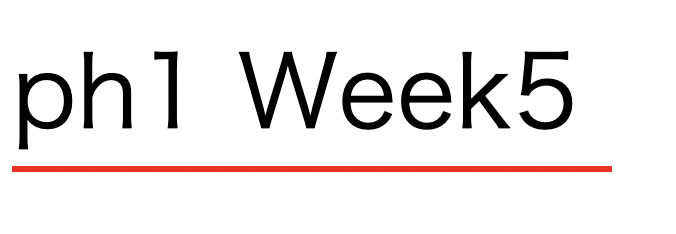
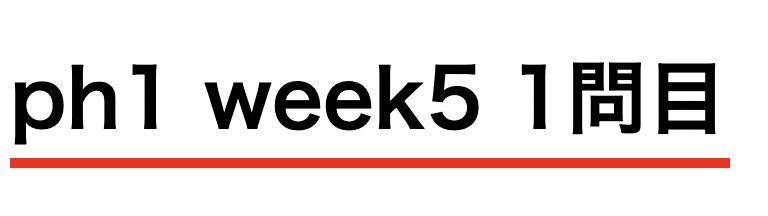
week05 追加

Changed region(s): [[0.2175, 0.1944, 0.932, 0.6389], [0.0, 0.6944, 0.963, 0.7778], [0.0, 0.2222, 0.2175, 0.6667]]

diff --git a/week5-2/index.html b/week5-2/index.html
@@ -6,11 +6,11 @@
   <meta name="viewport" content="width=device-width, initial-scale=1.0">
   <meta http-equiv="X-UA-Compatible" content="ie=edge">
   <title>ph1 week5 2問目</title>
-  <script src="./js/script.js"></script>
+  <link rel="stylesheet" href="./css/style.css">
 </head>
 
 <body>
-  <h1>ph1 week5 2問目</h1>
+  <h1 class="pseudo-class">ph1 week5 2問目</h1>
 </body>
 
 </html>

diff --git a/week5-1/css/style.css b/week5-1/css/style.css
@@ -1,9 +1,14 @@
 @charset "utf-8";
 
-.pseudo {
-  font-size: 50px;
+.pseudo-element {
+  font-size: 40px;
 }
 
-.pseudo::after {
-  /* ↓ ここに追記 ↓ */
+/* ↓ ここに追記 ↓ */
+.pseudo-element::after {
+  content: "";
+  display: block;
+  width: 360px;
+  height: 5px;
+  background-color: red;
 }

diff --git a/week5-2/css/style.css b/week5-2/css/style.css
@@ -1,0 +1,11 @@
+@charset "utf-8";
+
+.pseudo-class {
+  font-size: 50px;
+  cursor: pointer;
+}
+
+/* ↓ ここに追記 ↓ */
+.pseudo-class:hover {
+  color: blue;
+}

diff --git a/week5-1/index.html b/week5-1/index.html
@@ -10,7 +10,7 @@
 </head>
 
 <body>
-  <div class="pseudo">ph1 Week5</div>
+  <h1 class="pseudo-element">ph1 week5 1問目</h1>
 </body>
 
 </html>

diff --git a/week5-2/README.md b/week5-2/README.md
@@ -1,27 +1,15 @@
 # 5週目ミニドリル 2問目
 
 ## 問題
-まず検証ツールのコンソールを開き、\
-`Uncaught ReferenceError: a is not defined`\
-と表示されていることを確認してください\
-`aは定義されていない`という意味になります。
 
-JavaScriptの１箇所のみ修正して、検証ツールのコンソールに
-```
-おはよう
-こんにちは
-こんばんは
-```
-と出力してください
+CSS の擬似クラス `hover` を使い、文字にマウスカーソルを重ねると青色に変わるようにしましょう
+
+![サンプル画像1](img/sample-before.png)
+![サンプル画像2](img/sample-after.png)
+
 ### 修正箇所
 
-`js/script.js`
+`css/style.css`
 
 ### 終了条件
-検証ツールのコンソールに\
-```
-おはよう
-こんにちは
-こんばんは
-```
-と出力される
+- サンプル画像と同じように、マウスカーソルを重ねると色が変わる

diff --git a/week5-1/README.md b/week5-1/README.md
@@ -2,9 +2,9 @@
 
 ## 問題
 
-CSS の擬似要素にスタイルを追記し、以下のように文字に赤い下線を追加してください
+CSS の擬似要素 `after` を使い、以下のように文字に赤い下線を追加してください
 
-![サンプル画像](images/sample.png)
+![サンプル画像](img/sample.png)
 
 ### 修正箇所
 
